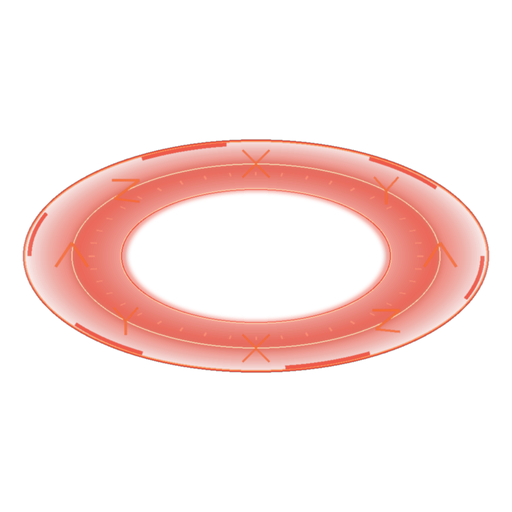
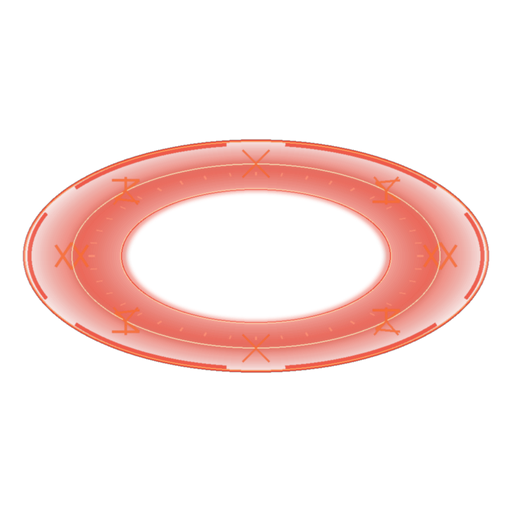
[Fix] 塔波爆四件根因修（訊息不疊/聚焦照塔/首環紅預警/環上下對稱）+ 對稱貼圖 — headed 真 render 四點驗過
用戶塔波爆四件真因修，★headed xvfb 真 render + subagent 逐幀看圖四點全驗過才交付（記取「headless 驗過實機還壞」教訓）：
①訊息不疊：gate towerGateSec=eventTextDurationSec+0.75 大字全程結束才觸發 onTowerWave。
②聚焦照塔：spawnTowers 提前到 beginFocus 生（聚焦時塔已在亮圈、聚光燈照塔非空圈/角色）+depth 972。
③首環紅預警：首環補發 enterWarning（第 0 環有紅預警圈才炸）。
④環上下對稱：GROUND_SQUASH_Y 單一真源+判定橢圓化；★環下半突出真因＝貼圖素材（非 code），特效手上下對稱化貼圖（成圖與垂直鏡像取 lighter 強制上緣=下緣，mean 上下鏡像 alpha 差 0.00）。

## 內容（wholesale cp，md5 驗符）
- 波騎 75da490：WaveSystem.ts（804f119c，gate）+eventNodeFramework.test.ts。
- 征騎 0b9e492：gameConfig.ts（GROUND_SQUASH_Y 單一真源）/Enemy.ts/GameScene.ts（spawnTowers 提前）/EffectSystem.ts/EnemySpawner.ts（首環 warning 補發+判定 squashY）/TowerIntroSequence.ts（cfd3ac63，beginFocus 生塔+depth 972）/towerRingSkill.ts（判定橢圓化）/towerRingSkill.test.ts。
- 特效手：fx_tower_ring_warning.png（49c8f976）+fx_tower_ring_attack.png（7e380a9f）上下對稱化。★asset 內建壓扁，程式不再套。

## 驗證（headed xvfb 真 render + subagent 看圖，四點全對）
①訊息不疊✅②聚焦聚光燈照 4 塔✅（rebuild 後 tf_11 對位）③首環紅預警圈✅（ring_02 紅環）④環上下對稱✅（ring_11 迸發最明顯幀上下弧粗細/亮度一致）。tsc+full build+全測 1375 綠。base 11821a3 乾淨接。

原作者：波騎-波次（75da490）、征騎-h5（0b9e492）、asset 特效手。翼騎代 cp+push。

diff --git a/src/systems/TowerIntroSequence.ts b/src/systems/TowerIntroSequence.ts
@@ -3,8 +3,9 @@ import { PLAYER_CONFIG } from '@/config/combatConfig';
 import { scriptedMoveStep, allScriptedArrived, type Vec2 } from '@/systems/guardIntro';
 import { towerGatherTargets, towerSpotlightTarget } from '@/systems/towerIntro';
 import type { GameContext } from '@/systems/GameContext';
+import type { Enemy } from '@/entities/Enemy';
 
-/** 塔波開場階段：玩家聚集中央走位 → 聚焦壓黑+定格 → 生塔 → 完成（交給 combat）。 */
+/** 塔波開場階段：玩家聚集中央走位 → 聚焦壓黑+定格（塔已生+聚焦顯現） → 完成（交給 combat）。 */
 type TowerIntroPhase = 'gather' | 'focus' | 'done';
 
 /**
@@ -38,8 +39,9 @@ export class TowerIntroSequence {
   private spotlight: { fadeOut: () => void } | null = null;
   private guardTextHandle: { fadeOut: () => void } | null = null;
 
-  // 生塔（聚焦結束一次性觸發）
-  private readonly onCombatStart: () => void;
+  // 生塔（★Bug2：提前到 beginFocus 生，聚焦時塔已在亮圈中被照亮；ringSkill 判定靠 guardFocusPause 凍結、combat 才開）
+  private readonly spawnTowers: () => Enemy[];
+  private spawnedTowers: Enemy[] = [];
   private finished = false;
 
   constructor(
@@ -63,8 +65,8 @@ export class TowerIntroSequence {
       towerMessageText?: string;
       /** Bug2：塔位（場景座標）——聚焦聚光燈打在塔上（包圍盒中心+框整組），非玩家聚集點。 */
       towerPositions?: readonly Vec2[];
-      /** 聚焦結束 → 生塔+發亮（GameScene 提供）。 */
-      onCombatStart: () => void;
+      /** ★Bug2：生塔+發亮（GameScene 提供，回傳生成的塔 entities 供聚焦提 depth）。beginFocus 前呼叫→聚焦時塔已在亮圈中。 */
+      spawnTowers: () => Enemy[];
     },
   ) {
     this.ctx = ctx;
@@ -74,17 +76,15 @@ export class TowerIntroSequence {
     this.spotlightRadiusPx = opts.spotlightRadiusPx ?? 260;
     this.towerMessageText = opts.towerMessageText ?? '打掉所有尖塔！';
     this.towerPositions = opts.towerPositions ?? [];
-    this.onCombatStart = opts.onCombatStart;
+    this.spawnTowers = opts.spawnTowers;
 
-    // ①鎖操作 + 導引走位到中央聚集 + 開場大字（比照 GuardEvent constructor）。
+    // ①鎖操作 + 導引走位到中央聚集（比照 GuardEvent constructor）。
     this.ctx.scriptedControl = true;
     const players = this.ctx.players ?? [];
     this.moveTargets = towerGatherTargets(this.center.x, this.center.y, players.length, opts.gatherOffsetPx ?? 120);
     this.moveArrived = players.map(() => false);
-    const introText = opts.introEventText ?? '';
-    if (introText !== '') {
-      this.ctx.effects?.timedEventText?.(opts.eventTextDurationSec ?? 3, introText);
-    }
+    // ★Bug1：第一段大字（introEventText）由 WaveSystem.enterNode 發送就好，constructor 不再重複發
+    //   （上批只清了第二段 guardText 重複、漏了第一段 timedEventText 也在此被重發＝大字刷兩次）。
     // 走位（自動移動）期間暫關搜索圈（footGlow），聚焦時恢復（比照守護波）。
     players.forEach((p) => p.setFootGlowVisible?.(false));
   }
@@ -153,27 +153,34 @@ export class TowerIntroSequence {
     }
   }
 
-  /** ②聚焦壓黑 spotlight（★打在塔上：塔位包圍盒中心+框整組半徑，Bug2 修）+ 第二段提示滑進 + 定格凍結（比照 GuardEvent.beginFocus 用雕像位置）。 */
+  /** ②★Bug2：先生塔+提 depth 到 spotlight 之上（塔在亮圈中被照亮）→ 聚焦壓黑 spotlight（打在塔上）+ 第二段提示 + 定格凍結。 */
   private beginFocus(): void {
-    // Bug2：聚光燈中心＝塔位（非玩家聚集點 this.center）。塔波該聚焦「塔」。
-    //   有塔位→包圍盒中心+框整組半徑（max(半對角線+邊距, preset spotlightRadiusPx)）；無塔位保底用 this.center。
+    // ★Bug2 真因修：塔在聚焦「之前」就生成+提 depth 到 spotlight overlay(960) 之上（比照守護波雕像 constructor 就建、
+    //   focus 時 setDepth 972 被照亮）。原本塔在 endFocus 才生→聚焦壓黑整段亮圈中心是空的、玩家點又≈塔中心→亮圈裡只看到玩家。
+    //   ringSkill 判定不會在聚焦時跑（guardFocusPause 凍結 EnemySpawner），combat（endFocus 解凍）才開判定。
+    this.spawnedTowers = this.spawnTowers();
+    this.spawnedTowers.forEach((t) => {
+      t.setTowerFocusDepth?.(); // depth 提到 spotlight 之上→聚焦時塔可見
+      t.playTowerAppear?.();    // 聚焦當下塔發亮顯現
+    });
+    // 聚光燈中心＝塔位（towerSpotlightTarget 包圍盒中心+框整組半徑）；無塔位保底用玩家聚集中心。
     const spot = this.towerPositions.length > 0
       ? towerSpotlightTarget(this.towerPositions, this.spotlightRadiusPx)
       : { center: this.center, radiusPx: this.spotlightRadiusPx };
     this.spotlight = this.ctx.effects?.guardSpotlight?.(spot.center.x, spot.center.y, spot.radiusPx) ?? null;
     this.guardTextHandle = this.ctx.effects?.guardText?.(this.towerMessageText) ?? null;
-    this.ctx.guardFocusPause = true; // 定格：玩法系統凍結（dt=0），聚焦 UI tween 照播
+    this.ctx.guardFocusPause = true; // 定格：玩法系統凍結（dt=0，含 EnemySpawner ringSkill），聚焦 UI tween 照播
     this.phase = 'focus';
     this.focusElapsed = 0;
   }
 
-  /** ③聚焦結束 → 淡出 + 解除定格/鎖操作 → 生塔+發亮（combat 開始）。 */
+  /** ③聚焦結束 → 淡出 + 還原塔 depth + 解除定格/鎖操作 → combat 開始（塔已生、guardFocusPause 解除後 ringSkill 開跑）。 */
   private endFocus(): void {
     this.cleanupFocus();
+    this.spawnedTowers.forEach((t) => t.restoreTowerDepth?.()); // 還原塔一般遊玩 depth（比照守護波雕像還原 15）
     this.ctx.scriptedControl = false;
     this.phase = 'done';
     this.finished = true;
-    this.onCombatStart(); // GameScene 生 towerCount 座塔 + playTowerAppear
   }
 
   private cleanupFocus(): void {

diff --git a/src/systems/WaveSystem.ts b/src/systems/WaveSystem.ts
@@ -42,6 +42,13 @@ const REWARD_HOLD_SEC = 4.4;
 const REWARD_FILL_DURATION = 0.6;
 
 /**
+ * timedEventText（EffectSystem 事件大字）滑進+滑出總額外秒數：滑進 400ms + 滑出 350ms = 0.75s。
+ * 塔波 towerGate 用「eventTextDurationSec + 此值」＝等大字全程（滑進+顯滿+滑出）結束才觸發第二段，避免重疊（Bug1）。
+ * 對齊 EffectSystem.timedEventText 的 duration:400 + delayedCall(400+dur) + duration:350。
+ */
+const TIMED_EVENT_TEXT_SLIDE_SEC = 0.75;
+
+/**
  * WaveSystem — 波次/關卡系統（Spawn 節點核心，資料由 JSON 驅動）。
  *
  * 關卡資料來自 public/assets/data/levels.json（schema 見 config/levelSchema.ts，對照 Unity）。
@@ -579,11 +586,18 @@ export class WaveSystem implements GameSystem {
     const isTowerNode = entered?.nodeType === 'Event' && isResolvedTowerPreset((entered as EventNodeData).eventPresetName);
     if (isTowerNode) {
       // 塔波登場第一段大字（照守護波：enterNode 只發 introEventText 大字 timedEventText）。
-      //   ★第二段提示（towerMessageText）由征騎 TowerIntroSequence.beginFocus 發（跟守護波「聚焦時才滑進提示」一致，
-      //   避免 enterNode 預發 + beginFocus 再發＝兩段疊在一起，Bug1）。towerGate 對齊 eventTextDurationSec。
+      //   ★第二段提示（towerMessageText）由征騎 TowerIntroSequence.beginFocus 發（跟守護波「聚焦時才滑進提示」一致）。
+      //   ★Bug1 gate 時序（對齊守護波 reveal gate「等 introText 全程結束」精神）：timedEventText 實際週期＝
+      //   滑進 0.4s + 顯滿 eventTextDurationSec + 滑出 0.35s（EffectSystem:699）。towerGate 必須等這整段結束才觸發
+      //   onTowerWave→beginFocus 發第二段，否則第一段大字還在滑出就出第二段＝重疊/未關就出下段。
+      //   introEventText='' → timedEventText 不發（無大字）→ gate 只需 0（無需等文字）。
       const tmsg = resolveTowerMessages(getResolvedTowerPreset((entered as EventNodeData).eventPresetName));
-      if (tmsg.introEventText !== '') this.ctx.effects?.timedEventText?.(tmsg.eventTextDurationSec, tmsg.introEventText);
-      this.towerGateSec = tmsg.eventTextDurationSec;
+      if (tmsg.introEventText !== '') {
+        this.ctx.effects?.timedEventText?.(tmsg.eventTextDurationSec, tmsg.introEventText);
+        this.towerGateSec = tmsg.eventTextDurationSec + TIMED_EVENT_TEXT_SLIDE_SEC; // 等大字全程結束（滑進+顯滿+滑出）
+      } else {
+        this.towerGateSec = 0; // 無第一段大字 → 不需等
+      }
     } else {
       this.towerGateSec = 0;
     }

diff --git a/tests/eventNodeFramework.test.ts b/tests/eventNodeFramework.test.ts
@@ -13,8 +13,8 @@ import { WAVE_MESSAGE_FX } from '@/systems/waveMessage';
 import { TOWER_MESSAGE_DEFAULTS } from '@/config/towerConfig';
 import type { LevelData, LevelsFile } from '@/config/levelSchema';
 
-/** 塔波 gate 時長＝Tower4 preset eventTextDurationSec（未設→預設）；測試推過此值才觸發生塔。 */
-const TOWER_GATE_ADVANCE = TOWER_MESSAGE_DEFAULTS.eventTextDurationSec + 0.05;
+/** 塔波 gate 時長＝eventTextDurationSec + timedEventText 滑進+滑出 0.75s（Bug1：等大字全程結束）；測試推過此值才觸發生塔。 */
+const TOWER_GATE_ADVANCE = TOWER_MESSAGE_DEFAULTS.eventTextDurationSec + 0.75 + 0.05;
 import type { MinePreset } from '@/config/mineConfig';
 
 function wrap(nodes: unknown[]): LevelsFile {
@@ -104,6 +104,18 @@ describe('魔尖塔=單獨波次 Event eventPresetName=tower preset', () => {
     expect(got!.ringSkill.ringCount).toBeGreaterThan(0);
   });
 
+  it('Bug1 gate 時序：等第一段大字全程結束（eventTextDurationSec+0.75）才觸發，只等 eventTextDurationSec 還不觸發', () => {
+    const ws = makeWave([{ nodeType: 'Event', eventPresetName: 'Tower4' }]); // eventTextDurationSec=3
+    let got: TowerPreset | null = null;
+    ws.onTowerWave = (p) => { got = p; };
+    ws.update(3 + 0.05); // 只到 eventTextDurationSec → 大字還在滑出（+0.75 未到）→ 仍不觸發
+    expect(got).toBeNull();
+    expect(ws.isTowerWaveActive()).toBe(false);
+    ws.update(0.75); // 補到全程結束 → 觸發
+    expect(got).not.toBeNull();
+    expect(ws.isTowerWaveActive()).toBe(true);
+  });
+
   it('打完全部尖塔 → onTowerWaveResult(true) + 前進', () => {
     const ws = makeWave([
       { nodeType: 'Event', eventPresetName: 'Tower4' },
@@ -126,8 +138,8 @@ describe('魔尖塔=單獨波次 Event eventPresetName=tower preset', () => {
     let won: boolean | null = null;
     ws.onTowerWaveResult = (w) => { won = w; };
     ws.update(TOWER_GATE_ADVANCE); // gate 跑完，生塔
-    // 不打塔，硬推超過限時（Tower4=60s）
-    for (let i = 0; i < 61 * 60; i += 1) ws.update(1 / 60);
+    // 不打塔，推進到剛超過限時（Tower4=60s）觸發失敗前進；一到 Reward(idx1) 就停（避免 Reward 自身 hold 再前進）。
+    for (let i = 0; i < 61 * 60 && ws.getNodeIndex() === 0; i += 1) ws.update(1 / 60);
     expect(won).toBe(false);
     expect(ws.getNodeIndex()).toBe(1); // 仍前進（不卡、不 GameOver）
   });

diff --git a/src/systems/EnemySpawner.ts b/src/systems/EnemySpawner.ts
@@ -1,4 +1,5 @@
 import Phaser from 'phaser';
+import { GROUND_SQUASH_Y } from '@/config/gameConfig';
 import { Enemy, type EnemyAttackEvent } from '@/entities/Enemy';
 import type { Player } from '@/entities/Player';
 import { circleIntersectsCircle, type Vec2 } from '@/systems/hitDetection';
@@ -438,6 +439,7 @@ export class EnemySpawner {
       if (!ring) continue;
       const params = resolveTowerRingParams(ring);
       let state = this.towerRingStates.get(e.id);
+      const justCreated = !state; // ★Bug3：本幀首建 state → 需主動補發初始環 warning VFX（第 0 環）
       if (!state) {
         state = createTowerRingState();
         this.towerRingStates.set(e.id, state);
@@ -453,7 +455,9 @@ export class EnemySpawner {
       const thickness = params.halfThicknessPx * 2; // 環帶厚度（與 annulus 判定一致）
 
       // VFX（用腳底圓心 c，環貼地、塔立環中央）：warning → towerRingWarning、active → towerRingActive。
-      if (enterWarning && params.warningSec > 0) {
+      // ★Bug3：首建 state 時第 0 環一開始就在 warning phase，但 tickTowerRingPhase 只在 active→warning 轉換才發 enterWarning
+      //   → 第 0 環從不畫紅圈預警、靜等 warningSec 直接炸。改：首幀主動補發一次初始 warning VFX（不動純函式契約）。
+      if ((enterWarning || (justCreated && phase === 'warning')) && params.warningSec > 0) {
         this.hitFeelFx?.towerRingWarning?.(c.x, c.y, radius * 2, thickness, params.warningSec * 1000);
       }
       if (enterActive) {
@@ -468,7 +472,7 @@ export class EnemySpawner {
         if (state.hitPlayersThisRing.has(pid)) continue;
         const pc = p.getVacuumCenter?.() ?? p.getHitCenter();
         const pr = p.getVacuumRadius?.() ?? p.getHitRadius();
-        if (ringHitsPlayer(c, radius, params.halfThicknessPx, pc, pr)) {
+        if (ringHitsPlayer(c, radius, params.halfThicknessPx, pc, pr, GROUND_SQUASH_Y)) {
           state.hitPlayersThisRing.add(pid);
           const energyRatio = params.energyCost * SECOND_TRANSFORM_CONFIG.energyLossOnHit;
           this.onPlayerRingHit?.(pid, energyRatio); // 沿用非改契約（不變量③）

diff --git a/src/scenes/GameScene.ts b/src/scenes/GameScene.ts
@@ -280,8 +280,10 @@ export class GameScene extends Phaser.Scene {
       const ui = resolveTowerUi(preset);
       const msgs = resolveTowerMessages(preset);
       this.towerRewardTickets = ui.rewardTickets; // E：過關發獎用（onTowerWaveResult 讀）
-      // 生塔動作（聚焦結束後才執行）：生 towerCount 座塔 + 血條 + 發亮。
+      // ★Bug2：生塔動作改在聚焦「之前」執行（beginFocus 呼叫），回傳生成的塔 entities 供聚焦提 depth 照亮。
+      //   生 towerCount 座塔 + 血條（發亮/提 depth 由 TowerIntroSequence 在聚焦時做）。ringSkill 判定靠 guardFocusPause 凍結、combat 才開。
       const spawnTowers = () => {
+        const towers = [];
         for (let i = 0; i < n; i += 1) {
           const t = spawner.spawnTower(positions[i].x, positions[i].y, preset.towerHp, ring, scale);
           t.setTowerHpBarUi?.({
@@ -289,8 +291,9 @@ export class GameScene extends Phaser.Scene {
             barOffsetYPx: ui.barOffsetYPx, labelOffsetYPx: ui.labelOffsetYPx,
           });
           t.createTowerHpBar?.(); // D：每座塔血條（比照守護波雕像血條）
-          t.playTowerAppear?.(); // B4：塔登場發亮
+          towers.push(t);
         }
+        return towers;
       };
       // ★塔波照搬守護波 GuardEvent 開場：玩家聚集中央 → 聚焦壓黑+定格 → 生塔+發亮 → combat。
       //   中心＝波騎 gatherPointPx（可編、預設畫面中央 960,540）；聚集半徑用預設（波騎未給 gatherOffsetPx）。
@@ -304,7 +307,7 @@ export class GameScene extends Phaser.Scene {
         eventTextDurationSec: msgs.eventTextDurationSec,
         towerMessageText: msgs.towerMessageText,
         towerPositions: positions, // Bug2：聚焦聚光燈打在塔位上（非玩家聚集點）
-        onCombatStart: spawnTowers,
+        spawnTowers, // ★Bug2：beginFocus 前生塔+回傳 entities（聚焦時提 depth 照亮）
       });
     };
     // 每摧毀一座尖塔 → 通知守護波累計（波騎判 towersDestroyed>=towerCount 過關提前 advance）。

diff --git a/tests/towerRingSkill.test.ts b/tests/towerRingSkill.test.ts
@@ -134,6 +134,30 @@ describe('towerRingSkill — 魔尖塔依序固定環（★重做：一環接一
     it('斜向距離（3-4-5）', () => {
       expect(ringHitsPlayer(tower, 100, half, { x: 60, y: 80 }, 5)).toBe(true); // d=100
     });
+    describe('★Bug4 橢圓化判定（squashY 對齊視覺貼地壓扁，上下對稱）', () => {
+      const sq = 0.5;
+      it('水平方向不受 squash 影響（dy=0）：環半徑 200 → x=200 命中', () => {
+        expect(ringHitsPlayer(tower, 200, half, { x: 200, y: 0 }, 20, sq)).toBe(true);
+      });
+      it('★垂直方向：正圓會誤判、橢圓化才對——玩家在塔正下方 y=200，環半徑 200', () => {
+        // 正圓(squashY=1)：d=200==ringRadius → 命中（但視覺橢圓下緣只到 200×0.5=100，看似安全＝上下不對稱 bug）
+        expect(ringHitsPlayer(tower, 200, half, { x: 0, y: 200 }, 20, 1)).toBe(true);
+        // 橢圓化(squashY=0.5)：dy'=200/0.5=400 → d=400 遠大於環 200 → 不命中（跟視覺一致：站遠了不該被打）
+        expect(ringHitsPlayer(tower, 200, half, { x: 0, y: 200 }, 20, sq)).toBe(false);
+      });
+      it('★上下對稱：塔正上/正下同距離判定一致', () => {
+        const up = ringHitsPlayer(tower, 200, half, { x: 0, y: -100 }, 20, sq);
+        const down = ringHitsPlayer(tower, 200, half, { x: 0, y: 100 }, 20, sq);
+        expect(up).toBe(down); // 對稱
+      });
+      it('橢圓下緣命中：玩家在正下方 y=100（視覺橢圓下緣=200×0.5=100）→ 命中', () => {
+        // dy'=100/0.5=200 → d=200==ringRadius → 命中（＝視覺環下緣位置，判定跟視覺一致）
+        expect(ringHitsPlayer(tower, 200, half, { x: 0, y: 100 }, 20, sq)).toBe(true);
+      });
+      it('squashY 省略＝正圓（向後相容）', () => {
+        expect(ringHitsPlayer(tower, 200, half, { x: 0, y: 200 }, 20)).toBe(true); // 正圓
+      });
+    });
   });
 
   describe('★A2 resolveTowerPositions（前 N 用設定、不足/省略用預設環形補到 towerCount）', () => {

diff --git a/src/systems/towerRingSkill.ts b/src/systems/towerRingSkill.ts
@@ -155,9 +155,13 @@ export function tickTowerRingPhase(
 }
 
 /**
- * ★環圈命中判定（annulus，中心空）：玩家圓是否碰到「當前環那一圈厚度帶」（固定半徑）。
- * 玩家中心到塔心距離 d、玩家半徑 r：碰到環帶 ⇔ |d - ringRadius| <= halfThickness + r。
- * d < ringRadius-half-r（環內側空心）→ 不命中；d > ringRadius+half+r（環外）→ 不命中。
+ * ★環圈命中判定（annulus，中心空；★Bug4 橢圓化＝跟視覺貼地壓扁橢圓一致，上下對稱）。
+ * VFX towerRingWarning/Active 貼地沿 Y 壓扁 squashY（俯視橢圓），若判定仍用正圓 hypot(dx,dy)，
+ * 玩家站塔上/下方時視覺環緣只到 R×squashY 看似安全、判定正圓卻延伸到 full R → 被打（上下不對稱）。
+ * 修：垂直距離先「還原」dy'=dy/squashY 再 hypot(dx,dy')，讓判定環＝視覺壓扁橢圓（同一顆橢圓 annulus）。
+ * squashY=1（預設）＝正圓（向後相容既有測/呼叫端）。
+ *
+ * 玩家中心到塔心橢圓距離 d、玩家半徑 r：碰到環帶 ⇔ |d - ringRadius| <= halfThickness + r。
  */
 export function ringHitsPlayer(
   towerCenter: Vec2,
@@ -165,9 +169,11 @@ export function ringHitsPlayer(
   halfThicknessPx: number,
   playerCenter: Vec2,
   playerRadius: number,
+  squashY = 1,
 ): boolean {
   const dx = playerCenter.x - towerCenter.x;
-  const dy = playerCenter.y - towerCenter.y;
+  const sq = squashY > 0 ? squashY : 1; // 0-safe
+  const dy = (playerCenter.y - towerCenter.y) / sq; // ★還原壓扁 → 橢圓距離（判定圈=視覺橢圓）
   const d = Math.hypot(dx, dy);
   return Math.abs(d - ringRadius) <= halfThicknessPx + playerRadius;
 }

diff --git a/src/systems/EffectSystem.ts b/src/systems/EffectSystem.ts
@@ -1,6 +1,6 @@
 import Phaser from 'phaser';
 import { VFX_EFFECTS, VFX_FRAME_PAD, type VFXEffectDef } from '@/config/vfxConfig';
-import { GAME_HEIGHT, GAME_WIDTH } from '@/config/gameConfig';
+import { GAME_HEIGHT, GAME_WIDTH, GROUND_SQUASH_Y as SHARED_GROUND_SQUASH_Y } from '@/config/gameConfig';
 import { UI_ICONS, UI_LAYOUT_ASSET, PANEL_DEPTH } from '@/config/uiConfig';
 import { validateUiLayout, isVisible, type ScreenElement } from '@/config/uiLayoutSchema';
 import { loadOverride, EDITOR_STORE_KEYS } from '@/config/editorStore';
@@ -1688,8 +1688,9 @@ export class EffectSystem {
     });
   }
 
-  /** 貼地圓盤 Y 軸壓扁比例（俯視橢圓；魔尖塔環 Graphics 版 + 火雨預警/落點共用；判定另處維持正圓，此僅視覺）。 */
-  private static readonly GROUND_SQUASH_Y = 0.5;
+  /** 貼地圓盤 Y 軸壓扁比例（俯視橢圓；魔尖塔環 + 火雨預警/落點共用）。★單一真源＝gameConfig.GROUND_SQUASH_Y，
+   *  塔環判定 ringHitsPlayer 也讀同值橢圓化（判定跟視覺一致上下對稱，Bug4）。 */
+  private static readonly GROUND_SQUASH_Y = SHARED_GROUND_SQUASH_Y;
 
   /**
    * ★魔尖塔「預警」環（C9 warning phase）：專屬貼圖 fx_tower_ring_warning（紅危險環帶+符文，★俯視壓扁 Y0.5 已內建）。

diff --git a/src/entities/Enemy.ts b/src/entities/Enemy.ts
@@ -670,9 +670,21 @@ export class Enemy implements Hittable {
   }
 
   /**
-   * 塔血條 UI 尺寸（波騎 preset：barWidthPx/barHeightPx/barOffsetYPx[塔頭上偏移]/labelOffsetYPx）。
-   * 須在 createTowerHpBar 前呼叫（GameScene spawnTower 時傳）。省略欄位用預設（比照雕像血條）。
+   * ★Bug2：塔聚焦顯現——把塔 sprite（+血條）depth 提到 spotlight overlay(960) 之上（比照守護波雕像 setDepth 972），
+   * 聚焦壓黑時塔在亮圈中被照亮看得見（塔在聚焦前就已生成，不再是空亮圈）。
    */
+  setTowerFocusDepth(focusDepth = 972): void {
+    this.anim.sprite.setDepth(focusDepth);
+    this.towerHpBar?.container.setDepth(focusDepth + 1);
+  }
+
+  /** ★Bug2：聚焦結束還原塔一般遊玩 depth（比照守護波雕像還原 15）。 */
+  restoreTowerDepth(normalDepth = 15): void {
+    this.anim.sprite.setDepth(normalDepth);
+    this.towerHpBar?.container.setDepth(normalDepth + 1);
+  }
+
+
   setTowerHpBarUi(ui: Partial<{ barWidthPx: number; barHeightPx: number; barOffsetYPx: number; labelOffsetYPx: number }>): void {
     this.towerBarUi = {
       barWidthPx: ui.barWidthPx ?? this.towerBarUi.barWidthPx,

diff --git a/src/config/gameConfig.ts b/src/config/gameConfig.ts
@@ -16,6 +16,12 @@ export const BACKGROUND_COLOR = '#1a1a2e';
  */
 export const PPU = 100;
 
+/**
+ * 貼地圓盤俯視壓扁 Y 係數（魔尖塔環/火雨預警共用）：貼圖/Graphics 沿 Y 壓扁成俯視橢圓（0.5＝高度對半）。
+ * ★單一真源：EffectSystem 視覺 + towerRingSkill 判定都讀此值，讓「判定橢圓」跟「視覺橢圓」一致（上下對稱，Bug4）。
+ */
+export const GROUND_SQUASH_Y = 0.5;
+
 /** 將 Unity unit 轉成像素。 */
 export function toPixels(units: number): number {
   return units * PPU;
